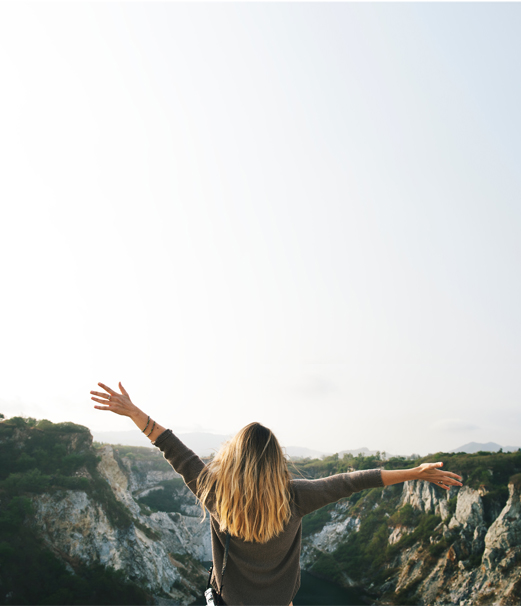
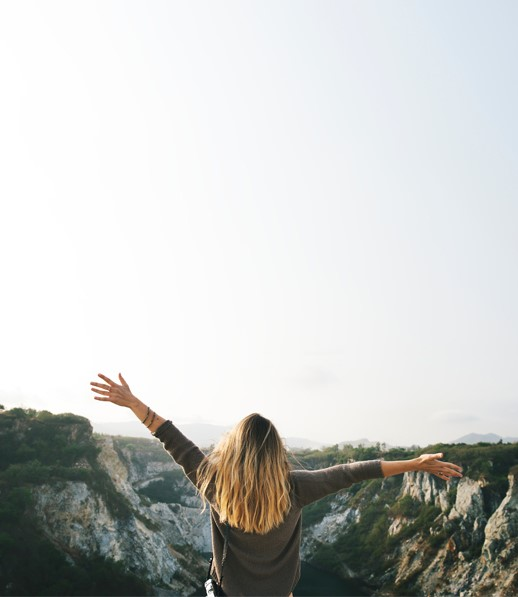
lets hope this works

Changed region(s): [[0.0, 0.603, 1.0, 1.0], [0.556, 0.995, 0.5869, 1.0], [0.1236, 0.8744, 0.1544, 0.9045]]

diff --git a/client/src/Pages/Home/Home.js b/client/src/Pages/Home/Home.js
@@ -37,9 +37,9 @@ class Home extends Component {
   }
 
   sendNewsletter = () => {
-    if(/[a-z0-9!#$%&'*+/=?^_`{|}~-]+(?:\.[a-z0-9!#$%&'*+/=?^_`{|}~-]+)*@(?:[a-z0-9](?:[a-z0-9-]*[a-z0-9])?\.)+[a-z0-9](?:[a-z0-9-]*[a-z0-9])?/.test(this.state.userEmail) == false){
+    if (/[a-z0-9!#$%&'*+/=?^_`{|}~-]+(?:\.[a-z0-9!#$%&'*+/=?^_`{|}~-]+)*@(?:[a-z0-9](?:[a-z0-9-]*[a-z0-9])?\.)+[a-z0-9](?:[a-z0-9-]*[a-z0-9])?/.test(this.state.userEmail) == false) {
       this.notifyError();
-    }else{
+    } else {
       axios.post("https://baiobar.herokuapp.com/sendNewsletter", {
         email: this.state.userEmail,
       })
@@ -49,12 +49,12 @@ class Home extends Component {
         .catch((err) => {
           console.log(err)
         })
-        this.notify()
-        this.emptyFields()
+      this.notify()
+      this.emptyFields()
     }
 
-    }
-   
+  }
+
 
   notify = () => {
     toast.success("You Are Now Subscribed To Our Newsletter !", {
@@ -133,7 +133,77 @@ class Home extends Component {
         </div>
 
 
-        <div id='homeSpacetaker'>
+        <div id='homeSpacetakerMobile' className='uk-hidden@m'>
+          <div id='homeWrapper2'>
+            <div id='upwardDownPic'>
+              <div className='uk-container '>
+                <div className='' uk-grid='true'>
+                  <div className='uk-width-1-2@m uk-width-1-1 uk-margin-large-top '>
+                    <div className='' uk-grid="true">
+                      <div className='uk-width-1-3@m uk-width-1-1 '>
+                        <img className='uk-align-center uk-margin-auto-vertical homeIcons' src='../images/icon-1.png'></img>
+                      </div>
+                      <div className='uk-width-2-3@m uk-width-1-1 uk-margin-auto-vertical '>
+                        <h4 className='uk-margin-small-top iconParas'>
+                          Crickets contain essential Vitamin and Minerals Iron and Vitamin B12
+                          </h4>
+                      </div>
+                    </div>
+                  </div>
+                  <div className='uk-width-1-2@m uk-width-1-1 uk-margin-large-top '>
+                    <div className='' uk-grid="true">
+                      <div className='uk-width-1-3@m uk-width-1-1 '>
+                        <img className='uk-align-center uk-margin-auto-vertical homeIcons' src='../images/icon-2.png'></img>
+                      </div>
+                      <div className='uk-width-2-3@m uk-width-1-1 uk-margin-auto-vertical '>
+                        <h4 className='uk-margin-small-top  iconParas'>
+                          Roughly 80% less water is used to produce the same amount of protein in crickets as bovine
+                        </h4>
+                      </div>
+                    </div>
+                  </div>
+                  <div className='uk-width-1-2@m uk-width-1-1 uk-margin-medium-top '>
+                    <div className='' uk-grid="true">
+                      <div className='uk-width-1-3@m uk-width-1-1 '>
+                        <img className='uk-align-center uk-margin-auto-vertical homeIcons' src='../images/icon-3.png'></img>
+                      </div>
+                      <div className='uk-width-2-3@m uk-width-1-1 uk-margin-auto-vertical '>
+                        <h4 className='uk-margin-small-top  iconParas'>
+                          Crickets are composed of 70-80% protein vs beef which ranges anywhere from 17%-40%
+                          </h4>
+                      </div>
+                    </div>
+                  </div>
+                  <div className='uk-width-1-2@m uk-width-1-1 uk-margin-medium-top '>
+                    <div className='' uk-grid="true">
+                      <div className='uk-width-1-3@m uk-width-1-1 '>
+                        <img className='uk-align-center uk-margin-auto-vertical homeIcons' src='../images/icon-4.png'></img>
+                      </div>
+                      <div className='uk-width-2-3@m uk-width-1-1 uk-margin-auto-vertical '>
+                        <h4 className='uk-margin-small-top  iconParas'>
+                          80% of the world already eats insects!
+                          </h4>
+                      </div>
+                    </div>
+                  </div>
+                </div>
+              </div>
+            </div>
+            <div id='mobileGirlPicChange'>
+              <div className='uk-container'>
+                <div uk-grid='true'>
+                  <div className='uk-width-1-1 uk-align-auto-vertical uk-text-center uk-align-center homePicSpecialContainer'>
+                    <hr style={this.HRstyle2} className='uk-margin-medium-bottom uk-align-center uk-margin-large-top'></hr>
+                    <h1 className='homeHeader1' style={this.style2}><b>CHALLENGE THE <span style={{ color: '#EC2D2D' }}>STATUS QUO</span></b></h1>
+                    <hr style={this.HRstyle2} className='uk-margin-medium-top uk-align-center uk-margin-xlarge-bottom'></hr>
+                  </div>
+                </div>
+              </div>
+            </div>
+          </div>
+        </div>
+
+        <div id='homeSpacetaker' className='uk-visible@m'>
           <div id='homeWrapper2'>
             <div className='uk-container '>
               <div className='' uk-grid='true'>
@@ -277,7 +347,7 @@ class Home extends Component {
                   </form>
                 </div>
               </div>
-              
+
             </div>
           </div>
         </div>

diff --git a/client/public/main.css b/client/public/main.css
@@ -747,6 +747,23 @@ width: 190px;
  }
 
 /* HOME PAGE */
+#mobileGirlPicChange{
+    background: url('./images/baiobar girl mountains_mobile.jpg') no-repeat center center  !important ;
+    background-position: center;
+    background-size: 100% 100%  !important;
+    -webkit-background-size:  100% 100%  !important;
+    -moz-background-size:  100% 100%  !important;
+     -o-background-size:   100% 100%   !important;   
+     height: 800px;
+}
+#upwardDownPic{
+    background: url('./images/baiobar girl mountains_mobile2.jpg') no-repeat center center  !important ;
+    background-position: center;
+    background-size: 100% 100%  !important;
+    -webkit-background-size:  100% 100%  !important;
+    -moz-background-size:  100% 100%  !important;
+     -o-background-size:   100% 100%   !important;  
+}
 #homeSpacetaker{
     background: url('./images/baiobar girl mountains_mobile.jpg') no-repeat center center  !important ;
     background-position: center;
@@ -980,24 +997,33 @@ width: 190px;
    
 
     /* HOME */
+    #mobileGirlPicChange{
+        background: url('./images/baiobar girl mountains_mobile.jpg') no-repeat center center  !important ;
+        background-position: center;
+        background-size: 100% 100%  !important;
+        -webkit-background-size:  100% 100%  !important;
+        -moz-background-size:  100% 100%  !important;
+         -o-background-size:   100% 100%   !important;   
+         height: 650px;
+    }
     .homeHeader1{
         font-size: 40px !important;
     }
     #homeWrapper1{
         background: url('./images/baiobar home main header image_mobile.jpg') no-repeat  ;
-        /* background-position: center;
-        background-size: 100% 100% !important;
-        -webkit-background-size:   100% 100% !important;
-        -moz-background-size:  100% 100% !important;
-         -o-background-size:   100% 100% !important;
-         height: 650px;  */
-         background-position: center ;
+        background-position: right bottom;
+        background-size: 85% 85% !important;
+        -webkit-background-size:   85% 85% !important;
+        -moz-background-size:  85% 85% !important;
+         -o-background-size:   85% 85% !important;
+         height: 550px; 
+         /* background-position: center ;
          background-repeat: no-repeat;
          background-size: cover;
          -webkit-background-size:   cover;
          -moz-background-size:  cover;
           -o-background-size:  cover;
-         height: 550px;
+         height: 550px; */
     }
     .instagramTextAllPages{
         font-size: 15px;
